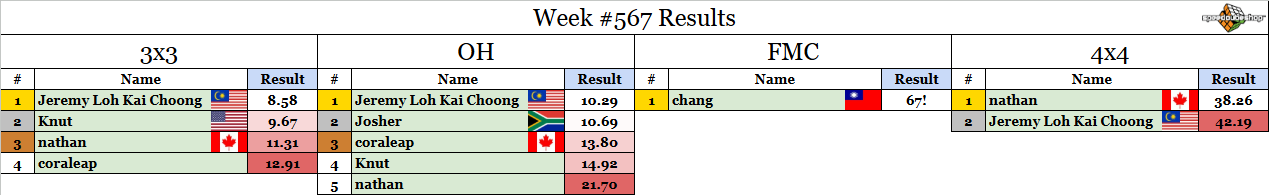
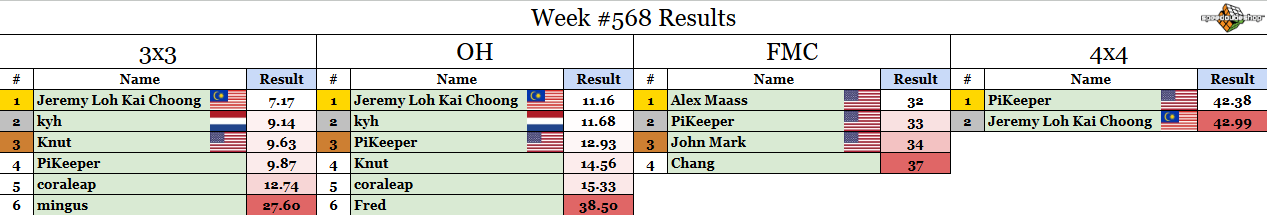
weekly comp update

diff --git a/src/weeklycomp/post.md b/src/weeklycomp/post.md
@@ -1,8 +1,8 @@
-## Weekly Competition #568 
+## Weekly Competition #569 
  
 This weekly competition is proudly sponsored by SpeedCubeShop.com. One competitor will be selected at random to receive a $5 SCS gift card! 
  
-Congrats to last week's winner by a random draw: **coraleap**. DM me for the prize. 
+Congrats to last week's winner by a random draw: **Fred**. DM me for the prize. 
  
 Check whether or not you participated this week yet at [https://bit.ly/RMSWeeklyCompSummary](https://bit.ly/RMSWeeklyCompSummary)  
  
@@ -16,29 +16,31 @@ Check whether or not you participated this week yet at [https://bit.ly/RMSWeekly
  7. The comp runs until Sunday 5pm Eastern time (more or less). Enter your times using the forms links below. 
  
 ### 3x3: [Submission Form](https://forms.gle/H5xoCWvGKnZ92fQt8) 
- 1. L2 D L2 R2 F2 R2 U' F2 U2 L2 B' L R U' R2 F R2 F2 U2 R 
- 2. F2 R' U2 L U2 B2 R D2 F2 R2 F' R' B' R2 F2 U B2 L' D R 
- 3. B' D' B' U B' R2 D B' D R' L' U2 R U2 D2 F2 R B2 
- 4. L U F' B2 D' F2 L2 D R2 B2 D L2 F2 U2 R' B2 L U B L' U2 
- 5. U R2 D2 L2 U' R2 U B2 D' L2 U' L R' F' D2 R F' U' B' D 
+ 1. U2 L2 F2 D2 L2 F2 D L2 D' L2 B2 U' R F' U' B' U B2 F' D' U2 
+ 2. U2 F2 B' R2 D' L' U2 D2 B R2 U2 L2 B2 U F2 D' L2 D2 B2 R2 U 
+ 3. B' D2 U2 F' U2 L2 R2 F U2 R2 F2 D2 U' B2 R' D' F2 L2 U2 R B 
+ 4. R F2 D2 R2 B2 U2 L2 R2 F L2 R2 U2 R' F R' U' F' D2 F' D B' 
+ 5. F2 R' L2 D' B' R' L D L B2 U2 B2 R2 F2 L U2 B2 L F2 L' F 
  
 ### OH: [Submission Form](https://forms.gle/UgRLW3K1d5KkMGfM9) 
- 1. R B' L' B U2 D2 B' R2 U2 D2 L' D2 B2 R D2 R B2 R2 D' L' 
- 2. F' U' L' B' R F2 U2 R2 D' R F2 R D2 F2 D2 R D2 F2 L2 B2 
- 3. B L2 U2 R' B2 L2 U2 B2 L2 D2 F2 R D R2 B U2 F U' R U' 
- 4. B' R2 F D2 F R F B2 D F2 R2 L2 F2 U2 R2 U F2 R B2 
- 5. R B F2 R' U2 L' F2 L F2 D2 B2 U2 R2 U' L B' L F U' L R' 
+ 1. L F2 U2 F R' B D' F' R2 B2 L2 B2 U' B2 R2 D' B2 D L2 D2 
+ 2. U F R2 F L U' B' D R' F2 R F2 D2 F2 R' F2 D2 F2 L' D2 
+ 3. R D2 B' U2 F D2 B D2 B2 R2 F' R2 L' U' B' F D2 U' F2 R 
+ 4. F B' R' F U L F R' D F2 R U2 L2 F2 L' B2 R' D2 R' B2 L2 
+ 5. L2 U2 L F2 D2 R D2 F2 U2 R' U2 D L' F U R' U' L2 F2 U' 
  
 ### FMC: [Submission Form](https://forms.gle/1P9VUgZmA1pibwvL9) 
- 1. R' U' F D2 L2 F2 R2 F' R2 F D2 L2 F R2 B' D L' B' D F2 U2 F' D2 R' U' F 
+ 1. R' U' F D L2 D' U2 B2 D L2 B2 L2 B2 U' B' F' D' L' U B U' B L' R' U' F 
  
 ### 4x4: [Submission Form](https://forms.gle/bHNjncvEcPvFWBP2A) 
- 1. R2 U2 L F2 R2 F2 U2 R F2 R U2 B R F L' U' D R' U' B2 U' Fw2 Uw2 L' U L' Uw2 R2 D R' Uw2 R' L2 Fw' D2 L F' U2 Uw' Fw2 Rw' D Rw Fw L2 Fw2 
- 2. R2 L' B2 D2 R2 U' B2 R2 F2 R2 D' R2 U' L' F R2 D' R' L U2 Uw2 B R' U2 Fw2 L' F U2 Uw2 Rw2 Fw2 L B2 Uw' F2 B' L2 U2 D' Fw' U2 Fw' Uw' B' Fw Rw' 
- 3. D' R2 L2 U R2 D' B2 D F2 U R2 B' D' F2 R U2 B' R F U L Rw2 B' R' Uw2 B L' Fw2 Uw2 L' B R' L' F' Uw B2 U Uw' F Rw' Fw' L Uw' R2 F B' U' 
- 4. L U2 B' L2 D' L' U' R U R U2 L2 D2 R' U2 L U2 L' U2 F2 Fw2 Uw2 F R Rw2 D2 Uw2 L' B U2 R' B' D Uw L' F Uw' R Fw U Rw' Uw2 L Rw' F' 
- 5. U' R' D2 L' B2 R2 B2 U2 B2 U2 L2 B2 L B' L2 U' L D R2 D2 B' Uw2 Rw2 B R2 D2 L Uw2 Rw2 B2 L' F Fw2 U' B2 Rw2 Uw' F U' R Fw' R Uw R B2 Uw 
+ 1. D2 L2 F2 U' D2 R2 U' B2 U' F' L D2 F B' R B2 U F B' Fw2 Uw2 F D' F' Fw2 L2 B D' Rw2 F' B' R' Rw' F' L B' Uw' Fw Rw2 Uw B' Fw2 U 
+ 2. L' F2 R' B2 L' F2 B2 D2 R' L' U2 D2 F' U' D2 L' U2 L F2 L2 D' Fw2 R2 L' F2 Uw2 B Fw2 L' D2 Rw2 B2 L Uw' L D2 B2 L2 Fw U' Uw2 L' Fw' D B' 
+ 3. U2 F2 U2 L B2 L' F2 L2 B2 D2 R F U F B U2 L F R2 B L' Rw2 B U2 F Fw2 L Rw2 D2 F Fw2 L B' L D' Uw' L Uw2 R' Rw U2 Fw Uw' R' U B 
+ 4. F' U' R2 D2 B2 L2 F' R2 L2 F B R L2 F2 B2 U2 D' R U L2 Fw2 U' Uw2 Rw2 U2 F B D' L2 U' F B2 Rw' U' B Rw' B Rw B' Fw2 R2 Fw U' R 
+ 5. R2 U' F2 D2 R2 L2 F2 B2 U' B2 L B' U2 D' F' L B L2 U2 B2 Fw2 R' Rw2 F Fw2 R2 Uw2 F' D2 B' R F' L2 Uw' B U D2 L2 Uw R' Rw Fw U' L2 B2 Uw' 
  
 ### Winning FMC solutions from last week: 
- 1. chang, 67! moves: [SOLUTION](https://bit.ly/4bNeSNK)
+ 1. Alex Maass, 32 moves: [SOLUTION](https://bit.ly/4tdYkEP) 
+ 2. PiKeeper, 33 moves: [SOLUTION](https://bit.ly/4ankmO5) 
+ 3. John Mark, 34 moves: [SOLUTION](https://bit.ly/4ankmO5) 
  
